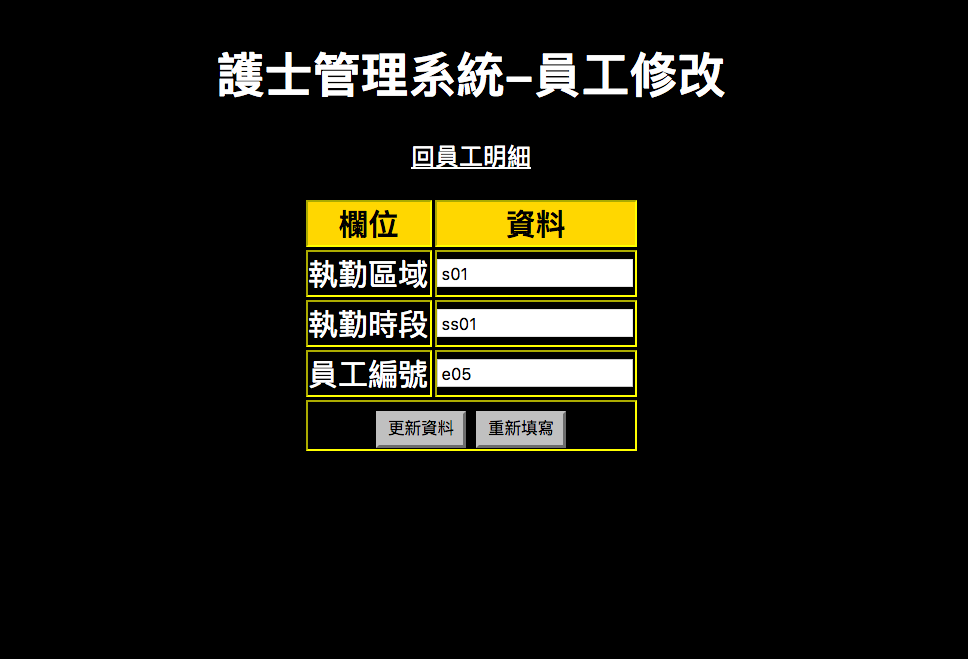
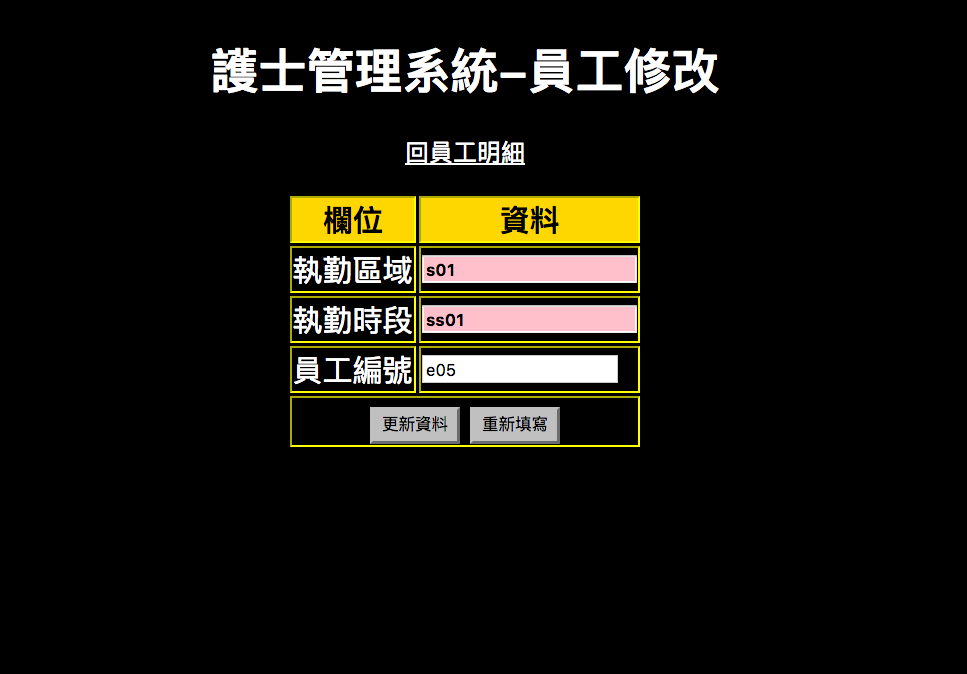
change pics

Changed region(s): [[0.2792, 0.2124, 0.6825, 0.698], [0.2172, 0.0607, 0.7446, 0.1517]]

diff --git a/css/main.css b/css/main.css
@@ -11,8 +11,9 @@ body {
 	color:white;
 }
 
-#cssSiteno, #cssSsno, {
+#cssSiteno, #cssSsno {
 	background:pink;
+	font-weight:bold;
 }
 
 #pacman {

diff --git a/php/duty_update.php b/php/duty_update.php
@@ -33,7 +33,7 @@
 <html>
 	<head>
 		<meta http-equiv="Content-Type" content="text/html; charset=utf-8" />
-		<title  id='title'>會員管理系統</title>
+		<title>會員管理系統</title>
 		<style>
 	    	<?php include ('main.css'); ?>
 	    </style>
